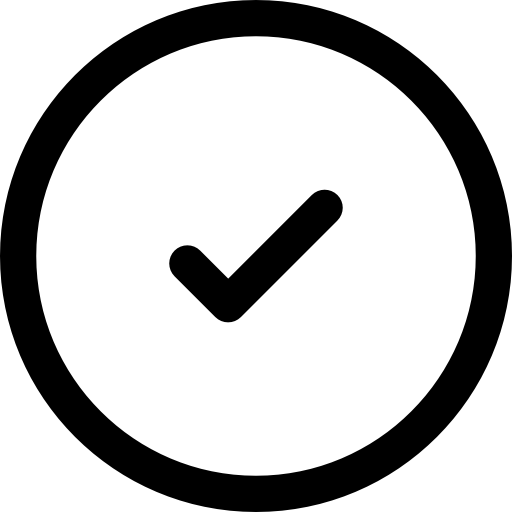
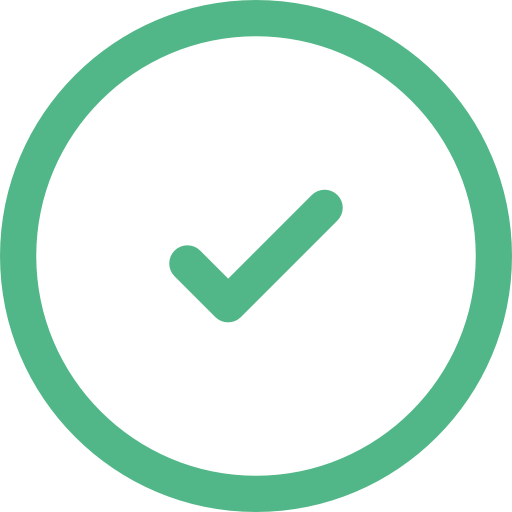
contactsed

Changed region(s): [[0.0, 0.0, 1.0, 1.0], [0.3125, 0.3438, 0.6875, 0.6562]]

diff --git a/src/Components/ContactOverlay.js b/src/Components/ContactOverlay.js
@@ -35,26 +35,26 @@ function ContactOverlay({ onClose, closing }) {
 
         <div className="contact-details">
 
-          <a className="contact-row" href="mailto:adam.hannay@fishwithlegs.co.uk">
+          <a className="contact-row">
             <span className="contact-label">Email</span>
             <div className="contact-info-set">
-              <span className="contact-value">adam.hannay@fishwithlegs.co.uk</span>
+              <a className="contact-value"  href="mailto:adam.hannay@fishwithlegs.co.uk">adam.hannay@fishwithlegs.co.uk</a>
               <CopyButton text="adam.hannay@fishwithlegs.co.uk" />
             </div>
           </a>
 
-          <a className="contact-row" href="tel:00000 000000">
+          <a className="contact-row">
             <span className="contact-label">Phone</span>
             <div className="contact-info-set">
-              <span className="contact-value">00000 000000</span>
+              <a className="contact-value"  href="tel:00000 000000">00000 000000</a>
               <CopyButton text="00000 000000" />
             </div>
           </a>
 
-          <a className="contact-row" href="https://instagram.com/fishwithlegs" target="_blank" rel="noreferrer">
+          <a className="contact-row">
             <span className="contact-label">Instagram</span>
             <div className="contact-info-set">
-              <span className="contact-value">@fishwithlegs</span>
+              <a className="contact-value"  href="https://instagram.com/fishwithlegs" target="_blank" rel="noreferrer">@fishwithlegs</a>
               <CopyButton text="@fishwithlegs" />
             </div>
           </a>

diff --git a/src/Style/ContactOverlay.css b/src/Style/ContactOverlay.css
@@ -120,11 +120,6 @@
     flex-direction: column;
     gap: 4px;
     text-decoration: none;
-    transition: opacity 0.2s ease;
-}
-
-.contact-row:hover .contact-value {
-    color: rgb(184, 228, 204);
 }
 
 .contact-label {
@@ -140,6 +135,10 @@
     font-size: 1.4rem;
     color: rgba(184, 228, 204, 0.75);
     transition: color 0.2s ease;
+}
+
+.contact-value:hover {
+    color: rgb(191, 235, 211);
 }
 
 /* ─── Footer ──────────────────────────────────────────────────────────────── */

diff --git a/src/Style/Recipes.css b/src/Style/Recipes.css
@@ -417,7 +417,7 @@
 
 .modifier-drawer {
     width: 100%;
-    max-height: 100vh;
+    max-height: 96vh;
     background: rgb(9, 15, 11);
     border-top: 1px solid rgba(82, 183, 136, 0.25);
     padding: 40px 6% 48px;
